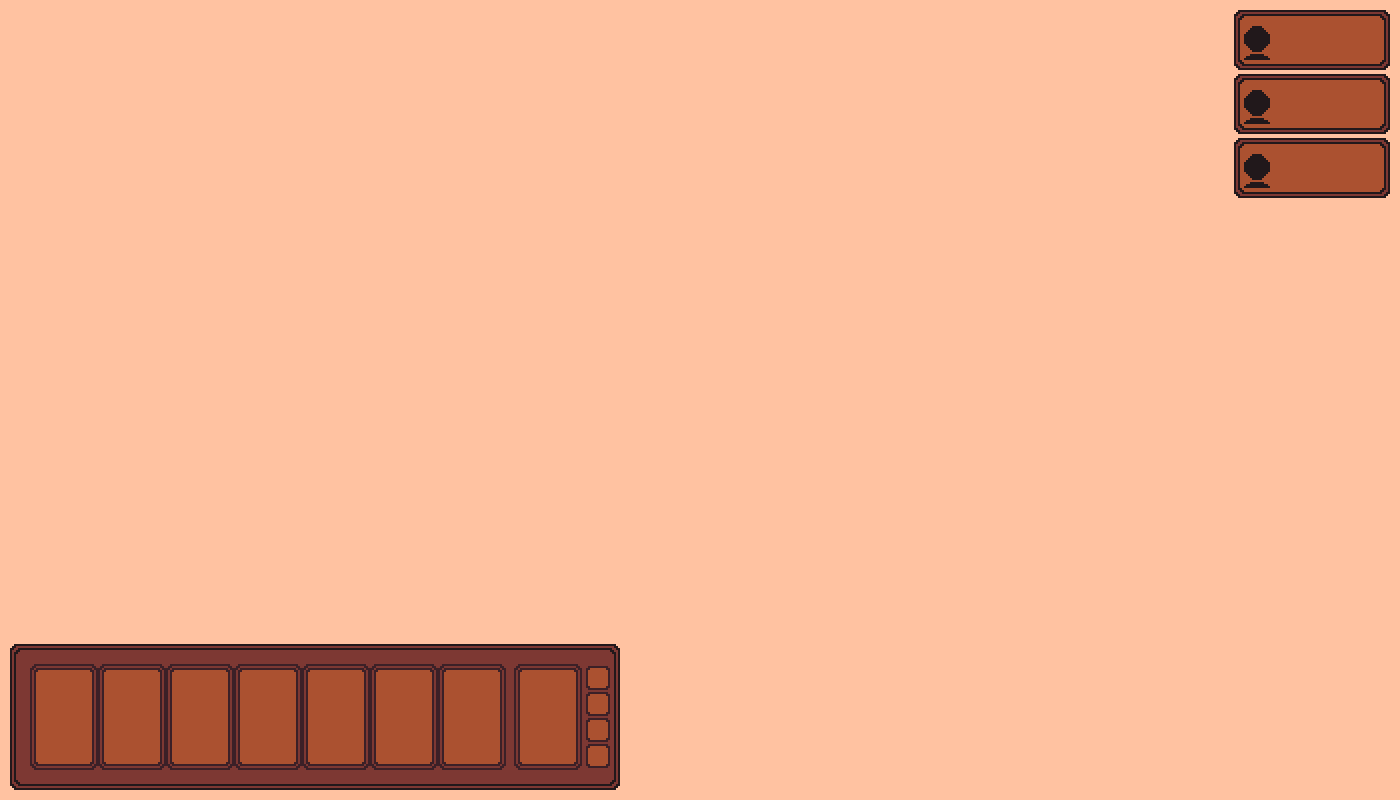
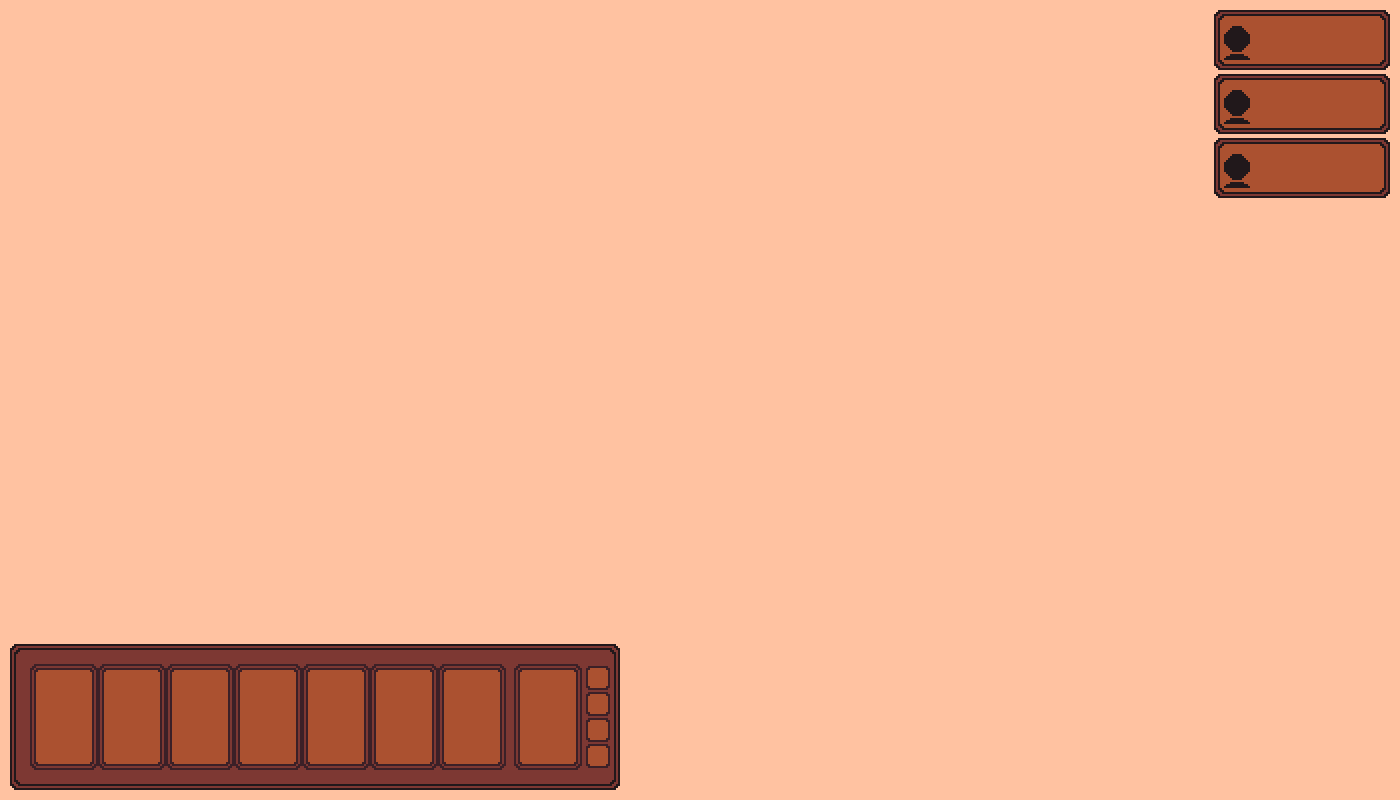
Game finished
Points interface added

Changed region(s): [[0.86, 0.0, 0.9214, 0.25]]

diff --git a/main.py b/main.py
@@ -2,9 +2,11 @@ from objects import Domino, Player, Button
 from pygame.sprite import Group as Layer
 from pygame.locals import *
 import numpy as np
+import asyncio
 import pygame
 import time
 import sys
+
 
 #Window configuration
 pygame.init()
@@ -48,6 +50,15 @@ PLAYERS[1].change_auto()
 FPS = 30
 
 
+text_color = (59, 32, 39)
+bck_color = (255, 194, 161)
+
+X = WIDTH
+Y = HEIGHT
+
+font = pygame.font.Font('assets/alagard.ttf', 32)
+
+
 class Table():
     def __init__(self):
         self.turn = 0
@@ -70,6 +81,8 @@ class Table():
 
         self.extra_domino = False
         self.extra_x, self.extra_y = 0, 0
+
+        self.capicua_bool = False
 
     def dominoes_distribution(self):
         for i in range(7):
@@ -321,9 +334,9 @@ class Table():
         self.right_iterator += 1
 
     def players_dominoes(self):
-        x, y = 1309, 30
-        num_x, num_y = 1260, 12
-        turn_x, turn_y = 1180, 25
+        x, y = 1290, 30
+        num_x, num_y = 1240, 12
+        turn_x, turn_y = 1160, 25
         sprite_added = True
 
         for player in PLAYERS:
@@ -486,8 +499,10 @@ class Table():
 
     def capicua(self):
         if self.table_dominoes[0].vals[0] == self.table_dominoes[-1].vals[-1]:
+            self.capicua_bool = True
             return True
         else:
+            self.capicua_bool = False
             return False
 
     def repeat_game(self):
@@ -505,6 +520,7 @@ class Table():
         return OBJECTS, LAYERS
 
     def start_game(self):
+        self.capicua_bool = False
         self.dominoes_distribution()
         self.create_buttons()
         
@@ -742,7 +758,6 @@ class GameManager():
                 self.winner.add_points(player.count_tiles())
 
             if table.capicua() and self.locked != True:
-                print("\nCAPICUAAAA!!!!!, SON 30!!!!")
                 self.winner.add_points(30)
 
     def new_game(self):
@@ -856,7 +871,7 @@ def add_domino_to_layers(domino):
         domino.update()
 
 
-def main():
+def run():
     global gameManager
     global table
     global turn
@@ -925,8 +940,6 @@ def main():
                 table.extra_domino = True
 
                 if len(table.table_dominoes) < PLAYERS_NUM and PLAYERS[TURN].first_pick:
-                    print("Son 30!!")
-
                     try:
                         PLAYERS[TURN - 1].add_points(30)
                     except:
@@ -965,32 +978,78 @@ def main():
 
         if len(table.dominoes) == 0:
             gameManager.possibility_of_lock_the_game = True
-
-        if gameManager.You_Win:
-            print(f"\nJugador #{gameManager.winner.num + 1} ganó la partida")
-
-            print("\nDominos de jugadores:")
-            for player in PLAYERS:
-                print(f"Jugador #{player.num + 1} en total {player.count_tiles()}, {player.dominoes}")
-
-            time.sleep(SLEEP_TIME*6)
-            pass
-
+        
         update_layers()
+
+    if gameManager.You_Win:
+        text = font.render(f"Jugador #{gameManager.winner.num + 1} gano la partida", True, text_color, bck_color)
+        
+        textRect = text.get_rect()
+        textRect.center = (WIDTH // 2, 66)
+
+        WINDOW.blit(text, textRect)
+
+        y_padding = 120
+        for player in PLAYERS:
+            points = font.render(f"Dominos del jugador #{player.num + 1} en total {player.count_tiles()}", True, text_color, bck_color)
+        
+            textRect2 = points.get_rect()
+            textRect2.center = (WIDTH // 2, y_padding)
+            y_padding += 30
+
+            WINDOW.blit(points, textRect2)
+
+        y_padding += 30
+        if table.capicua_bool and gameManager.locked == False:
+            capicua = font.render(f"Jugador #{gameManager.winner.num + 1} hizo capicua! (+30 puntos)", True, text_color, bck_color)
+        
+            textRect3 = capicua.get_rect()
+            textRect3.center = (WIDTH // 2, y_padding)
+
+            WINDOW.blit(capicua, textRect3)
+        
+        elif table.capicua_bool == False and gameManager.locked:
+            trancao = font.render(f"Jugador #{gameManager.winner.num + 1} ha trancado el juego!", True, text_color, bck_color)
+        
+            textRect3 = trancao.get_rect()
+            textRect3.center = (WIDTH // 2, y_padding)
+
+            WINDOW.blit(trancao, textRect3)
+
+        pygame.display.update()
+        time.sleep(SLEEP_TIME*24)
 
     OBJECTS, LAYERS = table.repeat_game()
     return OBJECTS, LAYERS
 
-if __name__ == '__main__':
+
+async def main():
+    global OBJECTS, LAYERS, PLAYERS_NUM, WINDOW, SLEEP_TIME, PLAYERS, last_players_num
+
     while True:
-        OBJECTS, LAYERS = main()
+        OBJECTS, LAYERS = run()
+        update_layers()
 
-        print("\nPuntos")
-        for player in PLAYERS:
-            print(f"Jugador #{player.num + 1}: {player.points}")
+        if last_players_num == PLAYERS_NUM:
+            text = font.render('Puntos', True, text_color, bck_color)
+            
+            textRect = text.get_rect()
+            textRect.center = (WIDTH // 2, 66)
 
-        print("\n////////////////////////////////////////////////////////")
-        time.sleep(SLEEP_TIME*6)
+            WINDOW.blit(text, textRect)
+            y_padding = 100
+
+            for player in PLAYERS:
+                points = font.render(f"Jugador #{player.num + 1}: {player.points}", True, text_color, bck_color)
+            
+                textRect2 = points.get_rect()
+                textRect2.center = (WIDTH // 2, y_padding)
+                y_padding += 30
+
+                WINDOW.blit(points, textRect2)
+
+            pygame.display.update()
+            time.sleep(SLEEP_TIME*24)
 
         if last_players_num != PLAYERS_NUM:
             PLAYERS = [Player(num) for num in range(PLAYERS_NUM)]
@@ -1010,3 +1069,8 @@ if __name__ == '__main__':
                 PLAYERS[1].change_auto()
                 PLAYERS[2].change_auto()
                 PLAYERS[3].change_auto()
+        
+        await asyncio.sleep(0)
+
+
+asyncio.run(main())
